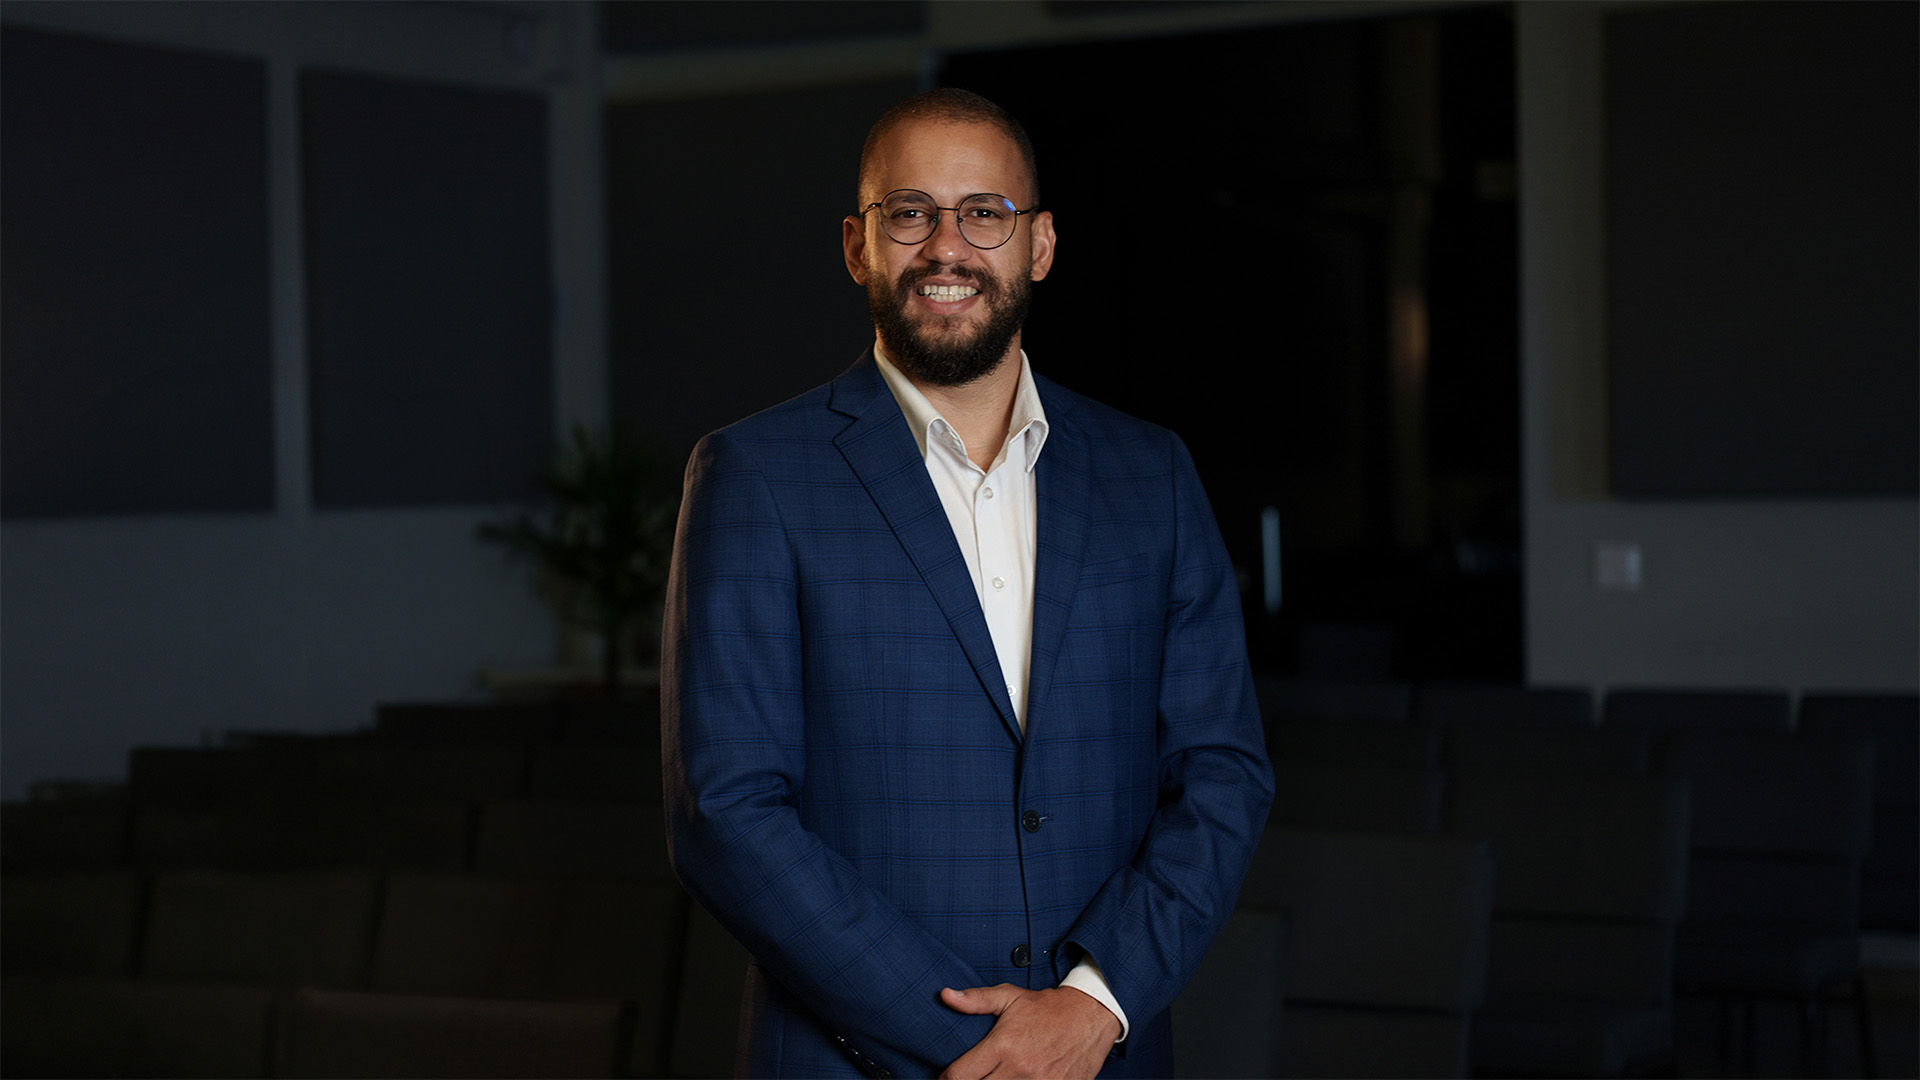
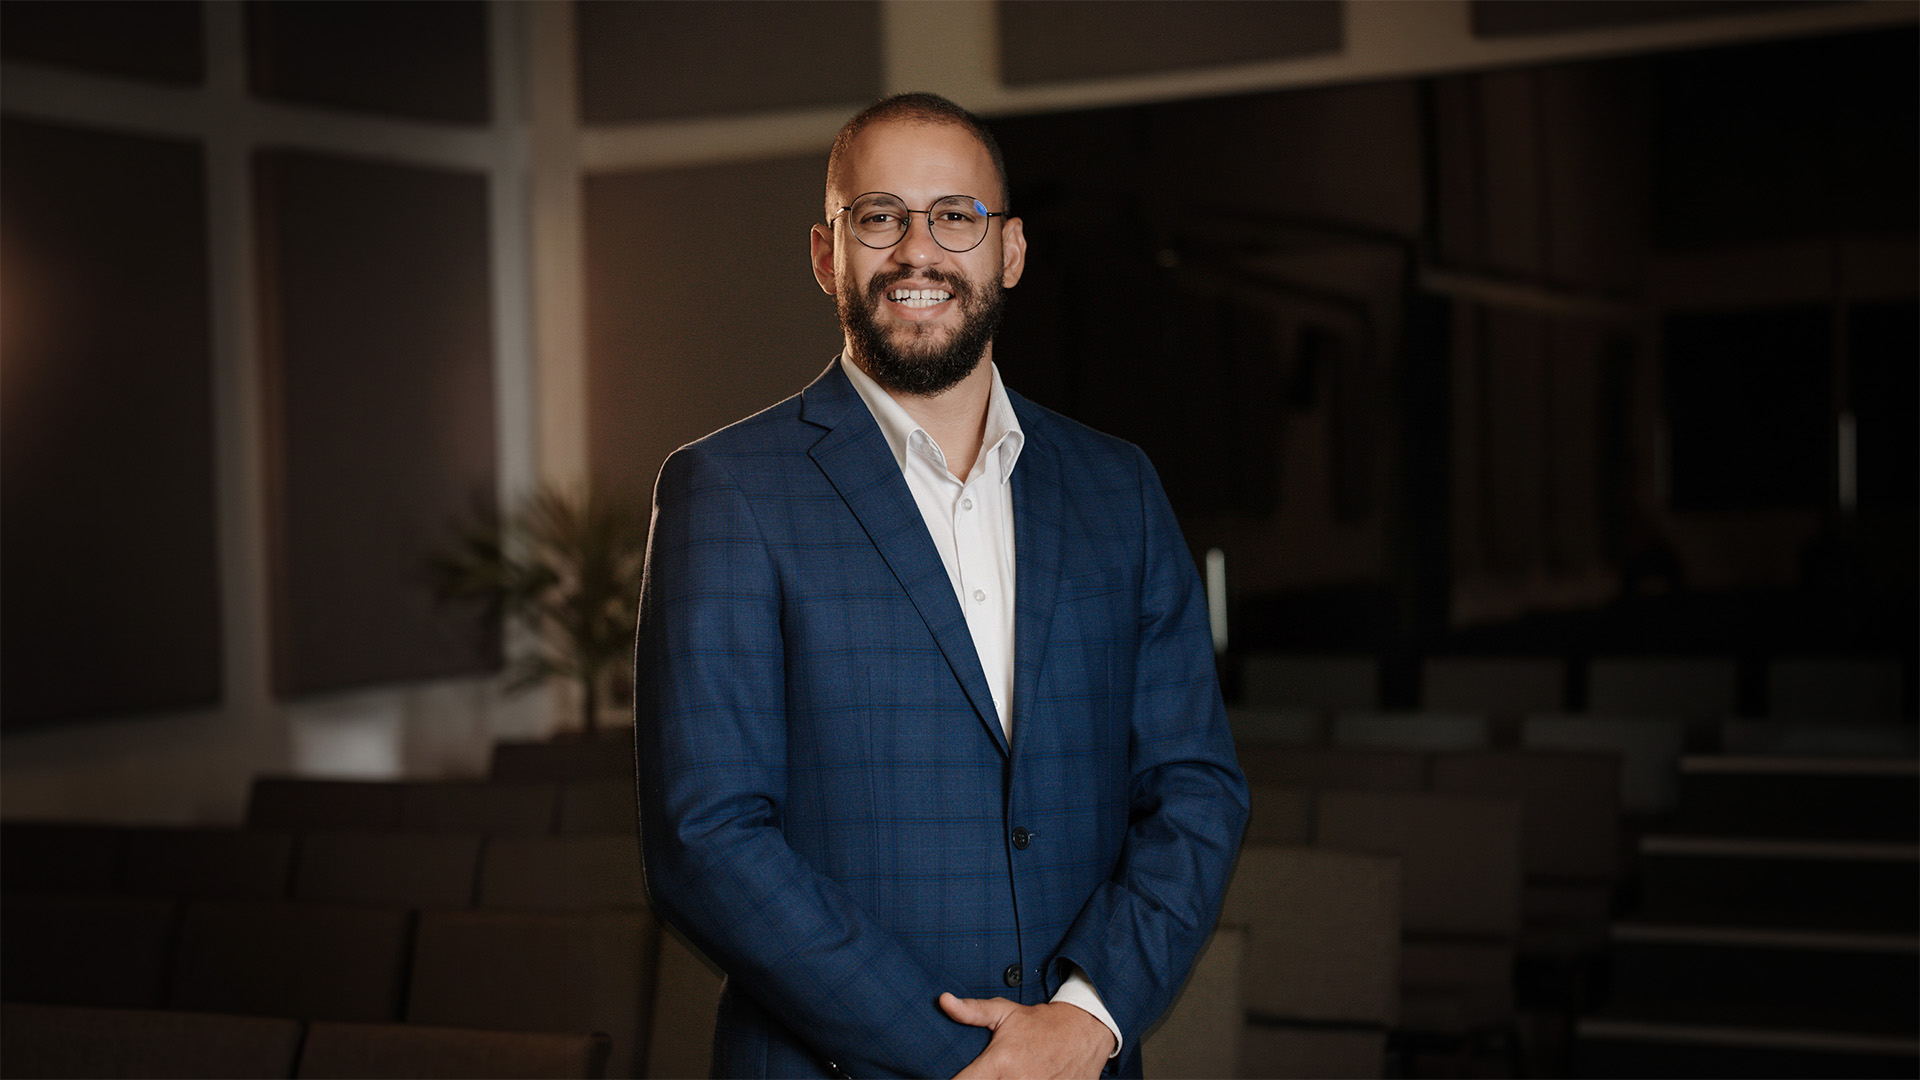
Hero com foto vira o padrão da home + ajustes aprovados com o pastor
- HeroFoto promovido a HomeHero (git mv): foto do culto como fundo em
  todas as larguras, tema de header "foto"; página /teste-header removida
- "No que cremos" de volta: título original e "Somos uma igreja
  confessional." reintegrada ao texto corrido, sem destaque
- Ministério Pastoral: subtítulo "Pr. Filipe Ribeiro" e foto nova (16:9,
  versão clara com o auditório ao fundo)
- Missão sem a animação de acender: texto padrão com o reveal do site,
  escala um degrau menor (clamp até 36px) e bloco centralizado (max-w-4xl,
  texto à esquerda) — a frase cai de 6 para ~4-5 linhas
- Botões WhatsApp e E-mail do "Fale conosco" com ícones

diff --git a/src/data/conteudo.ts b/src/data/conteudo.ts
@@ -17,12 +17,9 @@ export const heroReferencia = "Jonas 2.9";
 export const missao =
   "Somos uma igreja que existe para fazer discípulos do Senhor Jesus e, no poder do Espírito Santo, instruí-los no conhecimento de Deus e no caráter cristão, mediante a pregação do evangelho da graça, a fim de que sejam fiéis testemunhas de Cristo, para a glória de Deus Pai.";
 
-/** Seção "No que cremos" (Home): frase de abertura em destaque + apoio. */
-export const noQueCremos = {
-  destaque: "Somos uma igreja confessional.",
-  apoio:
-    "Isso significa que não apenas afirmamos crer na Bíblia, mas também confessamos publicamente como compreendemos e ensinamos as verdades fundamentais das Escrituras.",
-};
+/** Seção "No que cremos" (Home). */
+export const noQueCremos =
+  "Somos uma igreja confessional. Isso significa que não apenas afirmamos crer na Bíblia, mas também confessamos publicamente como compreendemos e ensinamos as verdades fundamentais das Escrituras.";
 
 export const pactoDeMembresia: string[] = [
   "Tendo sido, conforme cremos, trazidos pela graça divina a abraçarmos o Senhor Jesus Cristo e a nos entregarmos inteiramente a Ele, nós, solene e alegremente, firmamos uns com os outros o pacto de andarmos juntos nele em amor fraternal, para a glória de nosso Senhor. Portanto, na força de Deus, comprometemo-nos a:",

diff --git a/src/styles/global.css b/src/styles/global.css
@@ -151,24 +151,9 @@
   }
 
   /*
-   * Missão (Home): as palavras "acendem" conforme o scroll — script no
-   * HomeHero alterna .acesa por palavra. Sem JS o texto já nasce na cor
-   * plena; a transição de cor é barata (paint de texto, sem layout).
-   */
-  .js [data-acende] > span {
-    color: color-mix(in srgb, currentColor 30%, transparent);
-    transition: color 0.35s linear;
-  }
-
-  .js [data-acende] > span.acesa {
-    color: currentColor;
-  }
-
-  /*
    * Reduced-motion em camadas, não interruptor: manter um fade curto de
    * opacidade (sumir/aparecer de supetão também desorienta) e remover
    * deslocamento e cascata — movimento é o gatilho vestibular, não o fade.
-   * O acender da missão vira texto pleno e parado.
    */
   @media (prefers-reduced-motion: reduce) {
     .js [data-reveal],
@@ -179,11 +164,6 @@
 
     .js [data-reveal-grupo].is-visible > *:nth-child(n) {
       transition-delay: 0s;
-    }
-
-    .js [data-acende] > span {
-      color: currentColor;
-      transition: none;
     }
   }
 }
